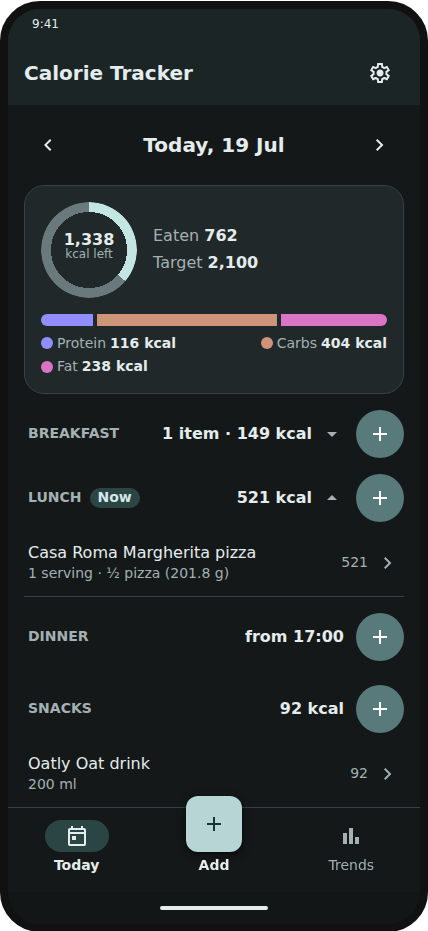
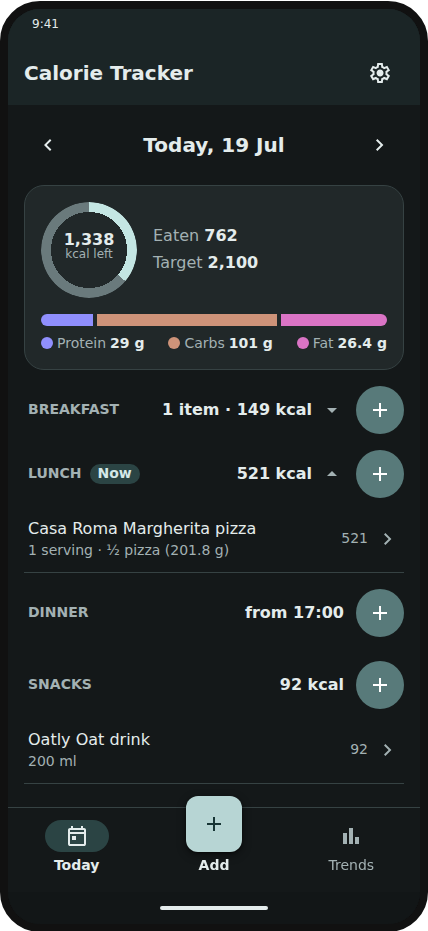
feat: show macros in grams and use the kit ring figure (#176)
* feat: show macros in grams and use the kit ring figure (kit 1.0.0-pr.19.25)

Bump the Shields.* packages to 1.0.0-pr.19.25. Macro bars stay sized by
kcal but label in grams through StackedBarSegment.ValueText. The ring uses
ProgressRing Figure/FigureUnit with the existing AriaLabel, and the local
.ring-number CSS goes. StatusMessageGutterTests reads the kit's
--snackbar-gap-bottom token.

* docs: describe the grams labels and kit ring figure on the screen pages

Also tie the gutter test's token check to GapToken and pin one exact
Trends macro label.

* docs: retake the Today README screenshots

---------

diff --git a/src/CalorieTracker.UI/Screens/DashboardView.razor.css b/src/CalorieTracker.UI/Screens/DashboardView.razor.css
@@ -22,24 +22,6 @@
     gap: var(--space-4);
 }
 
-.ring-number {
-    font-size: var(--font-size-md);
-    font-weight: var(--font-weight-bold);
-    line-height: var(--line-height-tight);
-}
-
-.ring-number.over {
-    color: var(--color-ring-arc-over);
-}
-
-.ring-number.wider {
-    font-size: var(--font-size-sm);
-}
-
-.ring-number.widest {
-    font-size: var(--font-size-xs);
-}
-
 .figures {
     display: flex;
     flex-direction: column;

diff --git a/tests/CalorieTracker.UI.Tests/Screens/DashboardViewTests.cs b/tests/CalorieTracker.UI.Tests/Screens/DashboardViewTests.cs
@@ -67,7 +67,7 @@ public class DashboardViewTests : ComponentTestBase
             Assert.That(Text(cut, "dashboard-ring-value"), Is.EqualTo("1,338"));
             Assert.That(Text(cut, "dashboard-eaten"), Is.EqualTo("762"));
             Assert.That(Exists(cut, "dashboard-share"), Is.True);
-            Assert.That(Text(cut, "dashboard-share-label-0"), Is.EqualTo("Protein 116 kcal"));
+            Assert.That(Text(cut, "dashboard-share-label-0"), Is.EqualTo("Protein 29 g"));
             Assert.That(Text(cut, "meal-breakfast-title"), Is.EqualTo("Breakfast"));
             Assert.That(Text(cut, "meal-lunch-total"), Is.EqualTo("521 kcal"));
             Assert.That(Text(cut, "meal-dinner-none"), Is.EqualTo("Nothing logged"));
@@ -167,9 +167,9 @@ public class DashboardViewTests : ComponentTestBase
         Assert.Multiple(() =>
         {
             Assert.That(share.GetAttribute("aria-label"), Does.StartWith("Energy share: Protein ").And.Contain("Carbs ").And.Contain("Fat "));
-            Assert.That(Text(cut, "dashboard-share-label-0"), Does.StartWith("Protein ").And.EndWith(" kcal"));
-            Assert.That(Text(cut, "dashboard-share-label-1"), Does.StartWith("Carbs ").And.EndWith(" kcal"));
-            Assert.That(Text(cut, "dashboard-share-label-2"), Does.StartWith("Fat ").And.EndWith(" kcal"));
+            Assert.That(Text(cut, "dashboard-share-label-0"), Does.StartWith("Protein ").And.EndWith(" g"));
+            Assert.That(Text(cut, "dashboard-share-label-1"), Does.StartWith("Carbs ").And.EndWith(" g"));
+            Assert.That(Text(cut, "dashboard-share-label-2"), Does.StartWith("Fat ").And.EndWith(" g"));
             Assert.That(cut.Find("[data-testid=dashboard-share-segment-0]").ClassList, Does.Contain("series-1"));
             Assert.That(cut.Find("[data-testid=dashboard-share-segment-1]").ClassList, Does.Contain("series-2"));
             Assert.That(cut.Find("[data-testid=dashboard-share-segment-2]").ClassList, Does.Contain("series-3"));
@@ -180,28 +180,30 @@ public class DashboardViewTests : ComponentTestBase
         DashboardSamples.Loaded with { Totals = totals, TargetKcal = target };
 
     [Test]
-    public void TheMacroLabels_AreTheEnergyOfEachMacroInWholeKcal()
+    public void TheMacroLabels_AreInGrams_AndTheBarIsSizedByKcal()
     {
         var cut = Render(WithTotals(new Core.Summary.Nutrition(500, 30, 67, 29), 2100));
 
         Assert.Multiple(() =>
         {
-            Assert.That(Text(cut, "dashboard-share-label-0"), Is.EqualTo("Protein 120 kcal"));
-            Assert.That(Text(cut, "dashboard-share-label-1"), Is.EqualTo("Carbs 268 kcal"));
-            Assert.That(Text(cut, "dashboard-share-label-2"), Is.EqualTo("Fat 261 kcal"));
+            Assert.That(Text(cut, "dashboard-share-label-0"), Is.EqualTo("Protein 30 g"));
+            Assert.That(Text(cut, "dashboard-share-label-1"), Is.EqualTo("Carbs 67 g"));
+            Assert.That(Text(cut, "dashboard-share-label-2"), Is.EqualTo("Fat 29 g"));
+            Assert.That(cut.Find("[data-testid=dashboard-share]").GetAttribute("aria-label"), Does.Contain("Protein 30 g, 19%").And.Contain("Carbs 67 g, 41%").And.Contain("Fat 29 g, 40%"), "the screen-reader text follows the grams while the shares are kcal");
         });
     }
 
     [Test]
-    public void TheMacroLabels_RoundHalfKcalUp_AndCountNegativeGramsAsZero()
+    public void TheMacroLabels_RoundGramsToOneDecimal_AndCountNegativeGramsAsZero()
     {
         var cut = Render(WithTotals(new Core.Summary.Nutrition(500, 30.375, -5, 10), 2100));
 
         Assert.Multiple(() =>
         {
-            Assert.That(Text(cut, "dashboard-share-label-0"), Is.EqualTo("Protein 122 kcal"));
-            Assert.That(Text(cut, "dashboard-share-label-1"), Is.EqualTo("Carbs 0 kcal"));
-            Assert.That(Text(cut, "dashboard-share-label-2"), Is.EqualTo("Fat 90 kcal"));
+            Assert.That(Text(cut, "dashboard-share-label-0"), Is.EqualTo("Protein 30.4 g"));
+            Assert.That(Text(cut, "dashboard-share-label-1"), Is.EqualTo("Carbs 0 g"));
+            Assert.That(Text(cut, "dashboard-share-label-2"), Is.EqualTo("Fat 10 g"));
+            Assert.That(cut.Find("[data-testid=dashboard-share-segment-0]").GetAttribute("style"), Does.Contain("57.547"), "30.375 g is 121.5 kcal, rounded half up to 122 of 212 kcal");
         });
     }
 
@@ -215,7 +217,6 @@ public class DashboardViewTests : ComponentTestBase
             Assert.That(Text(cut, "dashboard-ring-value"), Is.EqualTo("0"));
             Assert.That(Text(cut, "dashboard-ring-caption"), Is.EqualTo("kcal left"));
             Assert.That(cut.Find("[data-testid=dashboard-ring]").ClassList, Does.Not.Contain("over"));
-            Assert.That(cut.Find("[data-testid=dashboard-ring-value]").ClassList, Does.Not.Contain("over"));
         });
     }
 
@@ -244,13 +245,12 @@ public class DashboardViewTests : ComponentTestBase
         });
     }
 
-    [TestCase(99, "", "99")]
-    [TestCase(9999, "", "9,999")]
-    [TestCase(12345, " wider", "12,345")]
-    [TestCase(99999, " wider", "99,999")]
-    [TestCase(123456, " widest", "123,456")]
-    [TestCase(1234567, " widest", "1,234,567")]
-    public void TheRingNumber_StepsDownASizeAsItGetsWider(int eaten, string step, string shown)
+    [TestCase(99, "99")]
+    [TestCase(9999, "9,999")]
+    [TestCase(12345, "12,345")]
+    [TestCase(123456, "123,456")]
+    [TestCase(1234567, "1,234,567")]
+    public void TheRingFigure_IsTheKitsFigureWithTheNumberAsText(int eaten, string shown)
     {
         var cut = Render(WithTotals(new Core.Summary.Nutrition(eaten, 30, 67, 29), null));
 
@@ -258,8 +258,18 @@ public class DashboardViewTests : ComponentTestBase
         Assert.Multiple(() =>
         {
             Assert.That(value.TextContent.Trim(), Is.EqualTo(shown));
-            Assert.That(value.ClassName, Is.EqualTo("ring-number" + step));
+            Assert.That(value.ClassList, Does.Contain("value"), "the kit's figure, not app markup");
+            Assert.That(Text(cut, "dashboard-ring-caption"), Is.EqualTo("kcal eaten"));
+            Assert.That(cut.Find("[data-testid=dashboard-ring]").GetAttribute("aria-label"), Is.EqualTo($"{shown} kcal eaten. No target set."));
         });
+    }
+
+    [Test]
+    public void TheRingStyling_BelongsToTheKit_NoRingNumberInAppCss()
+    {
+        var files = RepoFiles.Find("*.css", "src", "CalorieTracker.UI").Concat(RepoFiles.Find("*.razor", "src", "CalorieTracker.UI"));
+
+        Assert.That(files.Where(f => File.ReadAllText(f).Contains("ring-number", StringComparison.Ordinal)), Is.Empty);
     }
 
     [Test]
@@ -273,7 +283,6 @@ public class DashboardViewTests : ComponentTestBase
             Assert.That(ring.GetAttribute("style"), Does.Contain("--fill: 0.3629"), "762 of 2,100");
             Assert.That(ring.GetAttribute("aria-label"), Is.EqualTo("1,338 kcal left. Eaten 762 of 2,100 kcal target."));
             Assert.That(ring.ClassList, Does.Not.Contain("over"));
-            Assert.That(cut.Find("[data-testid=dashboard-ring-value]").ClassList, Does.Not.Contain("over"));
         });
     }
 
@@ -300,7 +309,6 @@ public class DashboardViewTests : ComponentTestBase
             Assert.That(Text(cut, "dashboard-ring-value"), Is.EqualTo("233"));
             Assert.That(Text(cut, "dashboard-ring-caption"), Is.EqualTo("kcal over"));
             Assert.That(cut.Find("[data-testid=dashboard-ring]").ClassList, Does.Contain("over"));
-            Assert.That(cut.Find("[data-testid=dashboard-ring-value]").ClassList, Does.Contain("over"), "the number takes the over colour like the kit's own");
             Assert.That(cut.Find("[data-testid=dashboard-ring]").GetAttribute("aria-label"), Is.EqualTo("233 kcal over. Eaten 1,233 of 1,000 kcal target."));
         });
     }

diff --git a/tests/CalorieTracker.UI.Tests/DesignSystem/StatusMessageGutterTests.cs b/tests/CalorieTracker.UI.Tests/DesignSystem/StatusMessageGutterTests.cs
@@ -5,6 +5,8 @@ namespace CalorieTracker.UI.Tests.DesignSystem;
 
 public partial class StatusMessageGutterTests
 {
+    private const string GapToken = "--snackbar-gap-bottom";
+
     private static string Body(string file, string className)
     {
         var css = CommentRegex().Replace(RepoFiles.Read("src", "CalorieTracker.UI", file), "");
@@ -28,13 +30,13 @@ public partial class StatusMessageGutterTests
     [Test]
     public void ServingStatusError_HasTheSnackbarMargins()
     {
-        Assert.That(KitNames.Tokens, Does.Contain("--snackbar-gap-bottom"), "the kit's Snackbar gap token");
+        Assert.That(KitCss.Tokens, Does.Contain(GapToken), "the kit's Snackbar gap token");
 
         var css = CommentRegex().Replace(RepoFiles.Read("src", "CalorieTracker.UI", "Screens/ServingView.razor.css"), "");
         var rule = Regex.Match(css, @"\.error\.status-error\s*\{(?<body>[^}]*)\}");
         Assert.That(rule.Success, Is.True, "the status margins need the .error.status-error selector so they beat .error whatever the order");
 
-        Assert.That(MarginOf(rule.Groups["body"].Value, "Screens/ServingView.razor.css", "error.status-error"), Is.EqualTo("0 var(--space-4) var(--snackbar-gap-bottom)"), "the kit Snackbar's margins, copied here as a literal: a kit change to them is not caught automatically");
+        Assert.That(MarginOf(rule.Groups["body"].Value, "Screens/ServingView.razor.css", "error.status-error"), Is.EqualTo($"0 var(--space-4) var({GapToken})"), "the bottom margin is the kit's Snackbar gap token, not a literal copy of its value");
     }
 
     [Test]

diff --git a/src/CalorieTracker.UI/Screens/MacroSegments.cs b/src/CalorieTracker.UI/Screens/MacroSegments.cs
@@ -1,3 +1,4 @@
+using System.Globalization;
 using Shields.UI.Components.Charts;
 
 namespace CalorieTracker.UI.Screens;
@@ -9,13 +10,15 @@ internal static class MacroSegments
     private const double KcalPerGramCarbs = 4;
     private const double KcalPerGramFat = 9;
 
-    /// <summary>Protein, carbs and fat in the data series 1, 2 and 3, sized by their calories in whole kcal (negative grams count as zero). The bar is labelled in kcal, since its sizes are.</summary>
+    /// <summary>Protein, carbs and fat in the data series 1, 2 and 3, sized by their calories in whole kcal (negative grams count as zero), labelled in grams.</summary>
     public static IReadOnlyList<StackedBarSegment> Of(double proteinG, double carbsG, double fatG) =>
     [
-        new("Protein", Kcal(proteinG, KcalPerGramProtein), DataSeries.One),
-        new("Carbs", Kcal(carbsG, KcalPerGramCarbs), DataSeries.Two),
-        new("Fat", Kcal(fatG, KcalPerGramFat), DataSeries.Three),
+        new("Protein", Kcal(proteinG, KcalPerGramProtein), DataSeries.One, Grams(proteinG)),
+        new("Carbs", Kcal(carbsG, KcalPerGramCarbs), DataSeries.Two, Grams(carbsG)),
+        new("Fat", Kcal(fatG, KcalPerGramFat), DataSeries.Three, Grams(fatG)),
     ];
+
+    private static string Grams(double grams) => $"{Math.Max(grams, 0).ToString("0.#", CultureInfo.InvariantCulture)} g";
 
     private static double Kcal(double grams, double kcalPerGram) => Math.Round(Math.Max(grams, 0) * kcalPerGram, MidpointRounding.AwayFromZero);
 }

diff --git a/tests/CalorieTracker.UI.Tests/Screens/TrendsViewTests.cs b/tests/CalorieTracker.UI.Tests/Screens/TrendsViewTests.cs
@@ -99,9 +99,9 @@ public class TrendsViewTests : ComponentTestBase
         Assert.Multiple(() =>
         {
             Assert.That(cut.Find("[data-testid=trends-share]").GetAttribute("aria-label"), Does.StartWith("Average energy share: Protein "));
-            Assert.That(Text(cut, "trends-share-label-0"), Does.StartWith("Protein ").And.EndWith(" kcal"));
-            Assert.That(Text(cut, "trends-share-label-1"), Does.StartWith("Carbs ").And.EndWith(" kcal"));
-            Assert.That(Text(cut, "trends-share-label-2"), Does.StartWith("Fat ").And.EndWith(" kcal"));
+            Assert.That(Text(cut, "trends-share-label-0"), Is.EqualTo("Protein 182.6 g"));
+            Assert.That(Text(cut, "trends-share-label-1"), Does.StartWith("Carbs ").And.EndWith(" g"));
+            Assert.That(Text(cut, "trends-share-label-2"), Does.StartWith("Fat ").And.EndWith(" g"));
             Assert.That(cut.FindAll("[data-testid^=trends-share-segment-]").Select(e => e.ClassList.Single(c => c.StartsWith("series-", StringComparison.Ordinal))), Is.EqualTo(new[] { "series-1", "series-2", "series-3" }));
         });
     }

diff --git a/tests/CalorieTracker.UI.Tests/Screens/DashboardPageTests.cs b/tests/CalorieTracker.UI.Tests/Screens/DashboardPageTests.cs
@@ -116,7 +116,7 @@ public class DashboardPageTests : ComponentTestBase
             Assert.That(cut.FindAll("[data-testid=meal-lunch-section] ul .row"), Has.Count.EqualTo(1));
             Assert.That(cut.FindAll("[data-testid=meal-breakfast-section] ul .row"), Is.Empty);
             Assert.That(Exists(cut, "dashboard-empty"), Is.False);
-            Assert.That(Text(cut, "dashboard-share-label-0"), Is.EqualTo("Protein 30 kcal"));
+            Assert.That(Text(cut, "dashboard-share-label-0"), Is.EqualTo("Protein 7.6 g"));
         });
     }
 

diff --git a/src/CalorieTracker.UI.Stories/Stories/Screens/Dashboard.md b/src/CalorieTracker.UI.Stories/Stories/Screens/Dashboard.md
@@ -12,8 +12,8 @@ Home screen, called **Today** in the app's design: the day diary. A date strip, 
 |---|---|
 | Top bar | Title "Calorie Tracker"; Settings gear (`IconButton`) on the right, opens Settings. No back arrow; back leaves the app. |
 | Date strip | `DateStrip` under the bar: "Today, 19 Jul", the arrows move a day either way with no limit (future days too), and tapping the label returns to today. A future day looks like any other. The page opens on today, or on the day in the route's `date` (`/?date=yyyy-MM-dd`). |
-| Calories | A compact kit `Card`: the kit's `ProgressRing` at its `Compact` size with "Eaten" and "Target" beside it, and the macros under them. The ring fills with the calories eaten of the target (full at or over it); its centre (the `ProgressRing`'s `ChildContent`) shows the calories left with the caption "kcal left", and over the target the amount over, in the ring's over colour, with "kcal over". With no target set the ring shows calories eaten ("kcal eaten"), the card says "No target set" and **Set a target** opens Settings. The centre number steps down a size as it gets wider, as the kit's own does. The ring's text alternative carries the numbers ("1,338 kcal left. Eaten 762 of 2,100 kcal target."). Whole kcal as the day summary rounds them. |
-| Macros | The kit's `StackedBar` (label "Energy share") with protein, carbs and fat in the data series 1, 2 and 3, each segment sized by its calories (4 kcal per gram of protein and carbs, 9 per gram of fat) and labelled in kcal, inside the card under the ring. Hidden while nothing is logged. |
+| Calories | A compact kit `Card`: the kit's `ProgressRing` at its `Compact` size with "Eaten" and "Target" beside it, and the macros under them. The ring fills with the calories eaten of the target (full at or over it); its centre (the kit's `Figure` and `FigureUnit`, with an `AriaLabel`) shows the calories left with the caption "kcal left", and over the target the amount over, in the ring's over colour, with "kcal over". With no target set the ring shows calories eaten ("kcal eaten"), the card says "No target set" and **Set a target** opens Settings. The kit owns the centre number's width steps and its over colour. The ring's text alternative carries the numbers ("1,338 kcal left. Eaten 762 of 2,100 kcal target."). Whole kcal as the day summary rounds them. |
+| Macros | The kit's `StackedBar` (label "Energy share") with protein, carbs and fat in the data series 1, 2 and 3, each segment sized by its calories (4 kcal per gram of protein and carbs, 9 per gram of fat) and labelled in grams ("0.#", e.g. "30.4 g"), inside the card under the ring. The screen-reader text follows the grams. Hidden while nothing is logged. |
 | Empty day | `EmptyState` "Nothing logged today" ("Nothing logged this day" on any other day) with "Tap + on a meal to add your first food." shows under the card when no meal has an entry (the card has no macros then). |
 | Meal windows | `MealWindows` in Core fixes each meal's time of day: Breakfast 05:00 to 11:00, Lunch 11:00 to 15:00, Dinner 17:00 to 21:00 (a window includes its start and not its end); Snacks has none. On **today** a meal is **open** during its window and shows a "Now" chip after its name and an up arrow, and is a button with `aria-expanded` like a folded one: it starts open and tapping the header folds it to the same one line ("3 items · 348 kcal" or "Nothing logged") with a down arrow; **before** its window it shows only its header with "from 11:00" (no rows, no "Nothing logged"); **after** its window it is **folded** to one line, "3 items · 348 kcal" ("1 item", or "Nothing logged" when empty), with a down arrow. A folded header is a button with `aria-expanded`: tapping it opens the meal (a past meal with no entries then says "Nothing logged") and tapping again folds it. The + stays a separate button. Snacks is always open and has no arrow. On **any other day** every meal is open, with no chip and no "from". |
 | Reading the clock | The page reads the clock when the day loads and when the app resumes (`IAppStart`), not live, so a meal folds the next time the person comes back. `DashboardView` takes the time as `Now` (stories pass a fixed one); null reads every meal as open. Opened and folded meals are kept only in the view: leaving Today, or moving to another day, puts every meal back as its window says (a past meal folded, the Now meal open), and nothing is stored. |

diff --git a/src/CalorieTracker.UI.Stories/Stories/Screens/Trends.md b/src/CalorieTracker.UI.Stories/Stories/Screens/Trends.md
@@ -20,7 +20,7 @@ How a week, a month or a year went, from the bar's **Trends** item. View: `Trend
 |---|---|
 | Tiles | Each tile is the kit's `StatTile`, label first. **Average**: "2,124" with "kcal a day, 24 over target" (or "under" or "on target"). **On target**: "3 of 7" with "days within 10% of target" (7 is the days of the week). |
 | Calories by day | The kit's `ChartLegend` with dots (Under, On target, Over with a ▲ marker, "Target 2,100" on the dashed-line swatch and "Band ±10%" on the band swatch) (legend test ids `trends-legend-0`, `-1`, ... run in this order: Week with a target Under, On target, Over, Target, Band; Week without a target Under, On target, Over; Month Under, On target, Over, Not logged, Target, Band; Year Under, On target, Over, Target, Band) and the kit's `TrendBarChart` (the target is a dashed line and the band's two edges are outlines in `--color-chart-band`): one bar for each past logged day, coloured by its status against its own target, an over marker on Over days and the tallest value labelled. Today and later days, and days not logged, are empty slots. A bar is a button: it opens that day on Today (`/?date=yyyy-MM-dd`). |
-| Average macros | The kit's `StackedBar` with the average protein, carbs and fat in the data series 1, 2 and 3, sized by calories and labelled in kcal (test ids `trends-share-segment-<n>` and `-label-<n>`). |
+| Average macros | The kit's `StackedBar` with the average protein, carbs and fat in the data series 1, 2 and 3, sized by calories and labelled in grams (test ids `trends-share-segment-<n>` and `-label-<n>`). |
 | Kcal by meal | The kit's `BarList` of the average kcal in Breakfast, Lunch, Dinner and Snacks. |
 
 ## Month
